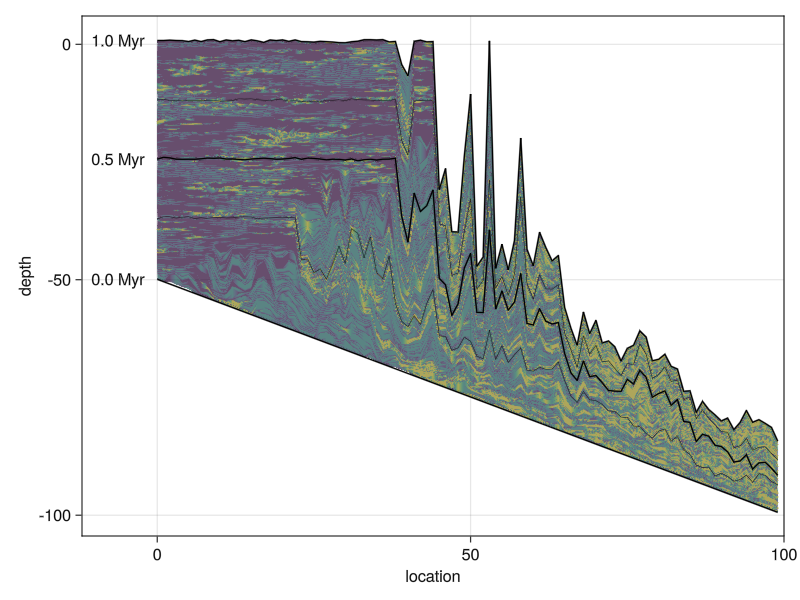
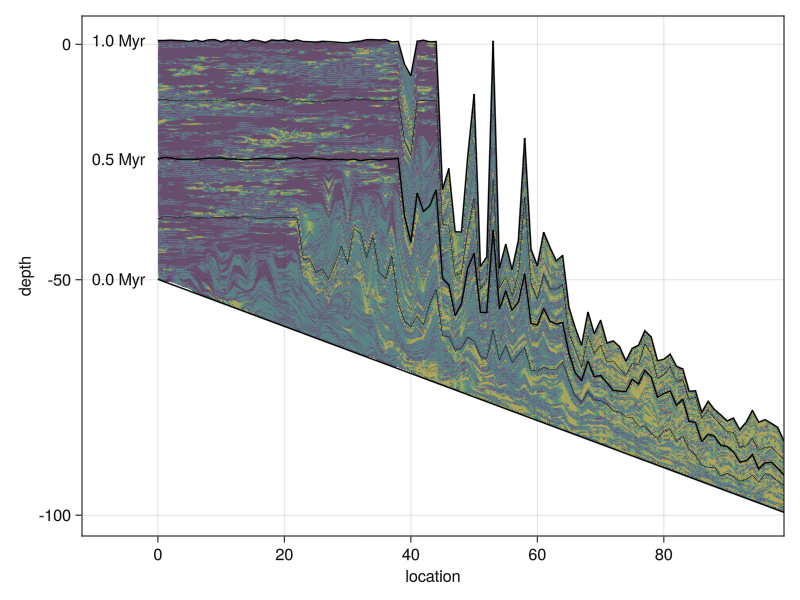
move plotting code to library; add plots for case 3

diff --git a/docs/src/ca-with-production.md b/docs/src/ca-with-production.md
@@ -262,6 +262,21 @@ DEFAULT_INPUT = Input(
 main(DEFAULT_INPUT, "data/ca-prod-slope.h5")
 ```
 
+``` {.julia .build file=examples/plot-cap-slope.jl target=docs/src/fig/b13-crosssection.png deps=data/ca-prod-slope.h5}
+using CarboKitten.Visualization
+using GLMakie
+
+function main()
+    f = Figure()
+    plot_crosssection(f[1,1], "data/ca-prod-slope.h5")
+	save("docs/src/fig/b13-crosssection.png", f)
+end
+
+main()
+```
+
+![](fig/b13-crosssection.png)
+
 ## Case 3
 Now add an oscillating sea level.
 
@@ -288,17 +303,39 @@ DEFAULT_INPUT = Input(
 main(DEFAULT_INPUT, "data/caps-osc.h5")
 ```
 
+``` {.julia .build file=examples/plot-caps-osc.jl target=docs/src/fig/b13-capsosc-crosssection.png deps=data/caps-osc.h5}
+using CarboKitten.Visualization
+using GLMakie
+
+function main()
+    f = Figure()
+    plot_crosssection(f[1,1], "data/caps-osc.h5")
+	save("docs/src/fig/b13-capsosc-crosssection.png", f)
+end
+
+main()
+```
+
+![](fig/b13-capsosc-crosssection.png)
+
 # Visualizing output
 
-![](fig/b13-crosssection.png)
+``` {.julia file=src/Visualization.jl}
+module Visualization
 
-``` {.julia .build target=docs/src/fig/b13-crosssection.png deps=data/ca-prod-slope.h5}
+export plot_crosssection
+
 using HDF5
 using GLMakie
 using GeometryBasics
 
-function main()
-    x, t, h, p = h5open("data/ca-prod-slope.h5","r") do fid
+function plot_crosssection(pos, datafile)
+    # x: 1-d array with x-coordinates
+    # t: 1-d array with time-coordinates (n_steps + 1)
+    # h[x, t]: height fn, monotonic increasing in time
+    # p[x, facies, t]: production rate
+    # taken at y = y_max / 2, h[x, 1] is initial height
+    n_facies, x, t, h, p = h5open(datafile,"r") do fid
         attr = HDF5.attributes(fid["input"])
         Δt = attr["delta_t"][]
         subsidence_rate = attr["subsidence_rate"][]
@@ -306,18 +343,40 @@ function main()
         total_subsidence = subsidence_rate * t_end
         total_sediment = sum(fid["sediment"][]; dims=3)
         initial_height = fid["input/height"][]
-        elevation = cumsum(total_sediment; dims=4)[25,:,1,:] .* Δt .- initial_height .- total_subsidence
+        center = div(size(total_sediment)[1], 2)
+        elevation = cumsum(total_sediment; dims=4)[center,:,1,:] .* Δt .- initial_height .- total_subsidence
         t = fid["input/t"][]
-        return fid["input/x"][], [t; Δt*attr["time_steps"][]], hcat(.- initial_height .- total_subsidence, elevation), fid["sediment"][25,:,:,:]
+        n_facies = size(fid["sediment"])[3]
+
+        return n_facies,
+               fid["input/x"][],
+               [t; Δt*attr["time_steps"][]],
+               hcat(.- initial_height .- total_subsidence, elevation),
+               fid["sediment"][center,:,:,:]
     end
+
 	pts = vec(Point{2,Float64}.(x, h[:,2:end]))
 	c = vec(argmax(p; dims=2)[:,1,:] .|> (c -> c[2]))
 	rect = Rect2(0.0, 0.0, 1.0, 1.0)
 	m_tmp = GeometryBasics.mesh(Tesselation(rect, (100, 1000)))
 	m = GeometryBasics.Mesh(pts, faces(m_tmp))
 
-	f = Figure()
-	ax = Axis(f[1, 1], xlabel="location", ylabel="depth", limits=((-12,100), nothing))
+	# pts = vec(Point{2,Float64}.(x, h))
+	# c = argmax(p; dims=2)[:,1,:] .|> (c -> c[2])
+    # w = size(x)[1]
+
+    # face(idx) = let k = idx[1] + idx[2]*w
+    #     TriangleFace(k, k+1, k+1+w), TriangleFace(k+1+w, k+w, k)
+    # end
+
+	ax = Axis(pos, xlabel="location", ylabel="depth", limits=((-12,x[end]), nothing))
+    # for f in 1:n_facies
+    #     locs = CartesianIndices((size(x)[1], size(t)[1] - 1))[c .== f]
+    #     triangles = collect(Iterators.flatten(face.(locs)))
+    #     m = GeometryBasics.Mesh(pts, triangles)
+    #     mesh!(ax, m)
+    # end
+
 	mesh!(ax, m, color=c, alpha=0.7)
 	for idx in [1,501,1001]
 		lines!(ax, x, h[:, idx], color=:black)
@@ -326,8 +385,7 @@ function main()
 	for idx in [250,750]
 		lines!(ax, x, h[:, idx], color=:black, linewidth=0.5)
 	end
-	save("docs/src/fig/b13-crosssection.png", f)
 end
 
-main()
+end
 ```
